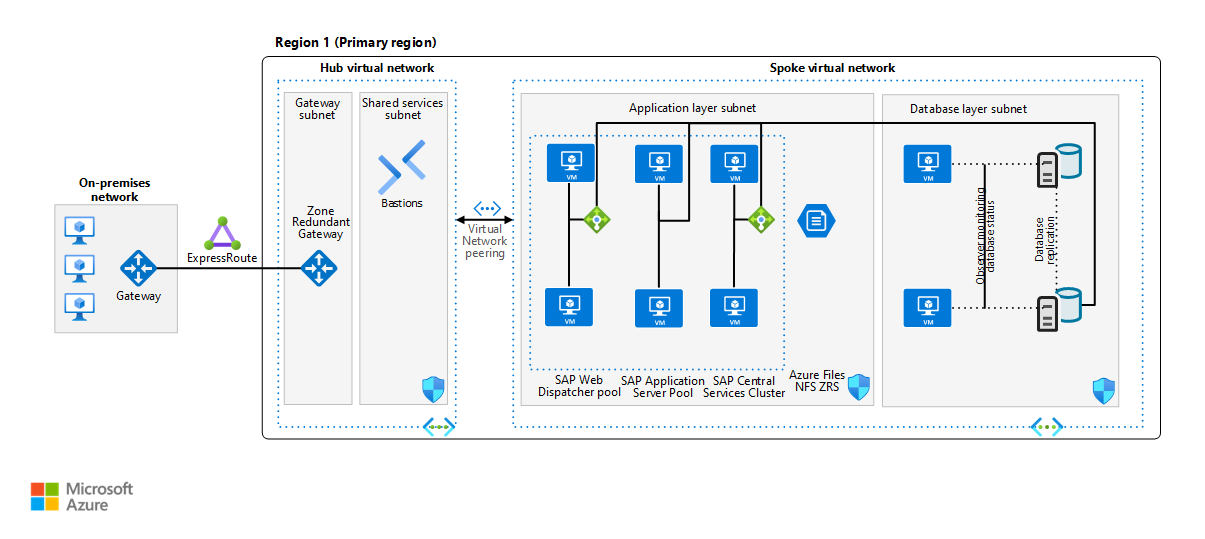
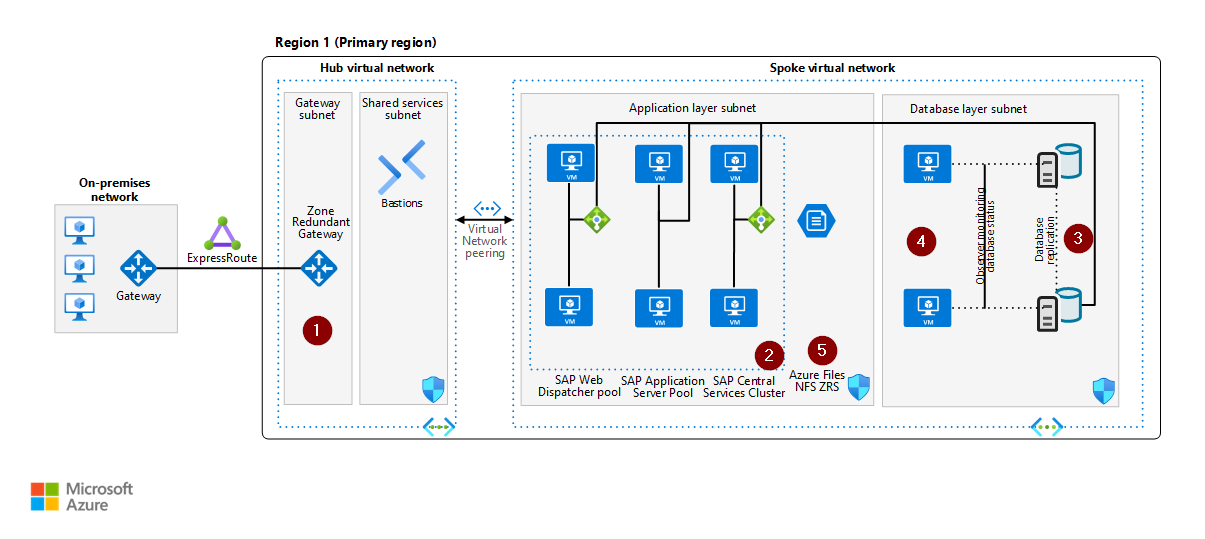
Corrections after review

diff --git a/docs/example-scenario/apps/sap-production-content.md b/docs/example-scenario/apps/sap-production-content.md
@@ -147,12 +147,12 @@ Cost Optimization is about looking at ways to reduce unnecessary expenses and im
 
 The main cost drivers in this architecture are:
 
-1. Oracle and SAP-certified VM SKUs and the number of VMs across the application tier, database tier, and observer nodes.
-1. Oracle licensing model decisions for OS and database software. Consider use of vCPU-constrained VM SKUs to reduce licensable cores where appropriate.
-1. Storage performance tiers and provisioned capacity for Oracle data, log, backup, and shared NFS volumes.
-1. Network and high-availability services, especially ExpressRoute or VPN gateways, load balancers, and cross-zone or cross-region replication traffic.
+- Oracle and SAP-certified VM SKUs and the number of VMs across the application tier, database tier, and observer nodes.
+- Oracle licensing model decisions for OS and database software. Consider use of vCPU-constrained VM SKUs to reduce licensable cores where appropriate.
+- Storage performance tiers and provisioned capacity for Oracle data, log, backup, and shared NFS volumes.
+- Network and high-availability services, especially ExpressRoute or VPN gateways, load balancers, and cross-zone or cross-region replication traffic.
 
-See the [preconfigured estimate in the Azure pricing calculator](https://azure.com/e/867954395d9e41c89cc4b768963a717c) for a medium-size Oracle highly available architecture to estimate costs for your selected topology and SKUs. To control spend, right-size VM memory and CPU to the measured SAPS and Oracle throughput requirements, use higher-cost storage tiers only where latency and IOPS requirements demand them, and evaluate reservations or savings plans for steady-state compute after validating operational and licensing flexibility.
+See the [preconfigured estimate in the Azure pricing calculator](https://azure.com/e/df99d09a95454b6f9bd89788ff47f4ff) for a medium-size Oracle highly available architecture to estimate costs for your selected topology and SKUs. To control spend, right-size VM memory and CPU to the measured SAPS and Oracle throughput requirements, use higher-cost storage tiers only where latency and IOPS requirements demand them, and evaluate reservations or savings plans for steady-state compute after validating operational and licensing flexibility.
 
 ## Contributors
 

diff --git a/docs/reference-architectures/sap/run-sap-hana-for-linux-virtual-machines-content.md b/docs/reference-architectures/sap/run-sap-hana-for-linux-virtual-machines-content.md
@@ -16,11 +16,11 @@ The following diagram shows a reference architecture for SAP HANA on Azure:
 
 ### Workflow
 
-This reference architecture describes a typical SAP HANA database running in Azure, in a highly available deployment to maximize system availability. The architecture and its components can be customized based on business requirements (RTO, RPO, uptime expectations, system role) and potentially reduced to a single VM. The network layout is simplified to demonstrate the architectural principles of such an SAP environment and isn't intended to describe a full enterprise network.
+This reference architecture describes a typical SAP HANA database running in Azure, in a highly available deployment to maximize system availability. The architecture and its components can be customized based on business requirements (recovery time objective (RTO), recovery point objective (RPO), uptime expectations, system role) and potentially reduced to a single VM. The network layout is simplified to demonstrate the architectural principles of such an SAP environment and isn't intended to describe a full enterprise network.
 
 The following workflow corresponds to the previous diagram:
 
-1. SAP application servers or administrative clients connect from on-premises or peered Azure networks through ExpressRoute into the SAP HANA spoke virtual network.
+1. Clients connect from on-premises or peered Azure networks through ExpressRoute into the SAP HANA spoke virtual network.
 1. An internal Azure Load Balancer provides the virtual IP endpoint for the database and directs client traffic to the active SAP HANA node.
 1. SAP HANA System Replication keeps the secondary node synchronized with the primary node. If you use an active/read-enabled configuration, a separate load balancer front end can direct read traffic to the secondary node.
 1. Pacemaker monitors node health and uses the selected fencing mechanism to isolate failed nodes. During a failover, the secondary node is promoted and the load balancer redirects client connections to the new primary node.
@@ -168,13 +168,12 @@ For more security guidance, see [Security for your SAP landscape](/azure/sap/wor
 
 Cost Optimization is about looking at ways to reduce unnecessary expenses and improve operational efficiencies. For more information, see [Design review checklist for Cost Optimization](/azure/well-architected/cost-optimization/checklist).
 
-The main cost drivers in this architecture are:
+The main infrastructure cost drivers in this architecture are:
 
 1. SAP HANA-certified VM SKUs and the number of database nodes that you deploy for high availability and disaster recovery.
 1. Storage performance tiers and capacity for data, log, and backup volumes, including Azure NetApp Files capacity and replication where used.
-1. Network and platform services, especially ExpressRoute circuits and gateways, and internal load balancer resources.
 
-Use the [Azure Pricing Calculator](https://azure.com/e/b6930da9f66548bbb3a8d3e2bbf29381) to estimate the cost of a smaller architecture. Modify the selections to match your design. When you create a calculator estimate, include your selected VM SKUs, node counts, storage tiers, and network components.
+Use this [Azure Pricing Calculator estimate](https://azure.com/e/bf3998d7be834670bc2632dbf7efb87b) to estimate the cost of a smaller architecture. Modify the selections to match your design. When you create a calculator estimate, include your selected VM SKUs, node counts, storage tiers, and network components.
 
 Typical sizing starts with one of these patterns and then scales by memory, IOPS, and throughput requirements:
 